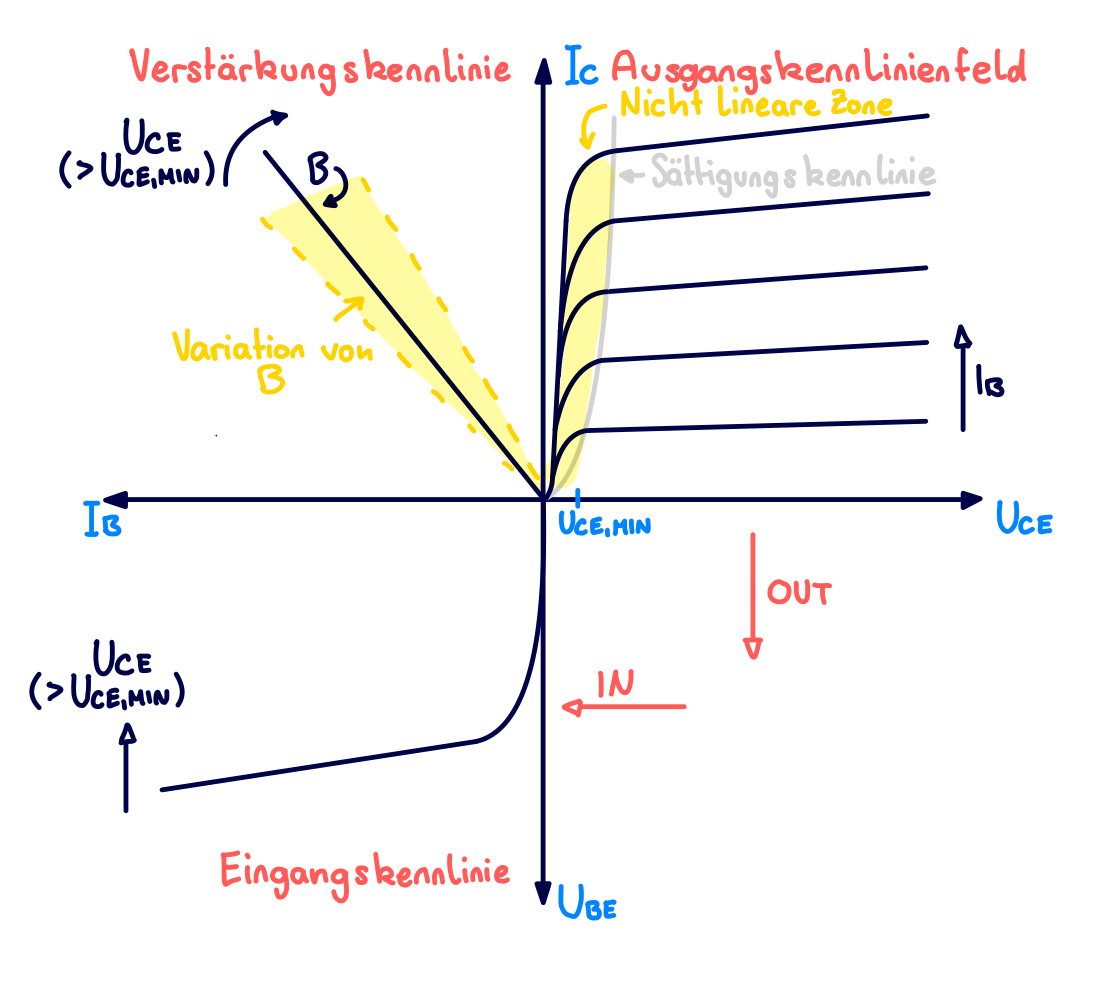
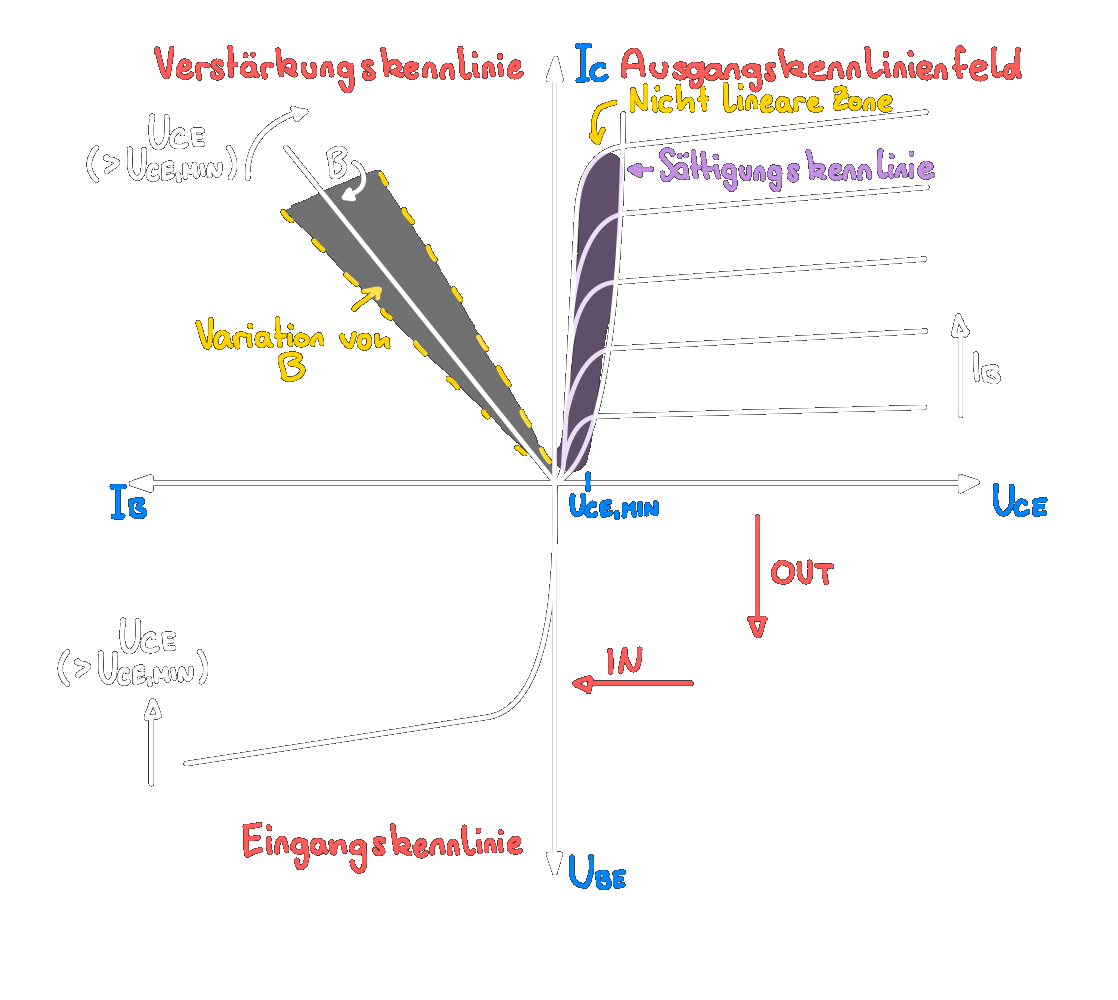
vault backup: 2024-11-11 00:38:12

Changed region(s): [[0.031, 0.031, 0.9599, 0.93], [0.031, 0.62, 0.1858, 0.806], [0.8361, 0.31, 0.929, 0.434]]

diff --git a/Chemie/elektrischer Leiter.md b/Chemie/elektrischer Leiter.md
@@ -16,6 +16,8 @@ semester: WS25
 
 # Elektrische Leitfähigkeit
 
+
+
 - Leiter, [Silizium](../Physik/Materialkunde/Silizium.md), Isolator (prof)
 - Elektr. Leiter 1. Klasse ([Metalle](Metallbindung.md)) $\rightarrow$ Elektronen als Ladungsträger
 - Elektr. Leiter 2. Klasse (gelöstes oder geschmolzenes [Salz](Ionenbindung.md)) $\rightarrow$ Ionen als Ladungsträger

diff --git a/Hardwareentwicklung/Halbleiter/Bipolartransistor.md b/Hardwareentwicklung/Halbleiter/Bipolartransistor.md
@@ -56,7 +56,7 @@ $$
 
 ### 4-Quadranten Kennlinienfeld
 
-![invert_dark|800](../assets/BJT-KL.png)
+![invert_light|800](../assets/BJT-KL.png)
 
 ## Arbeitspunkteinstellung
 
